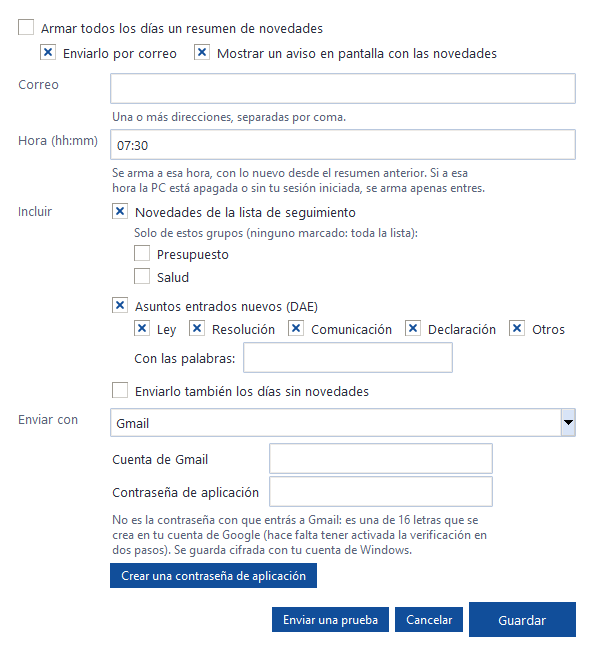
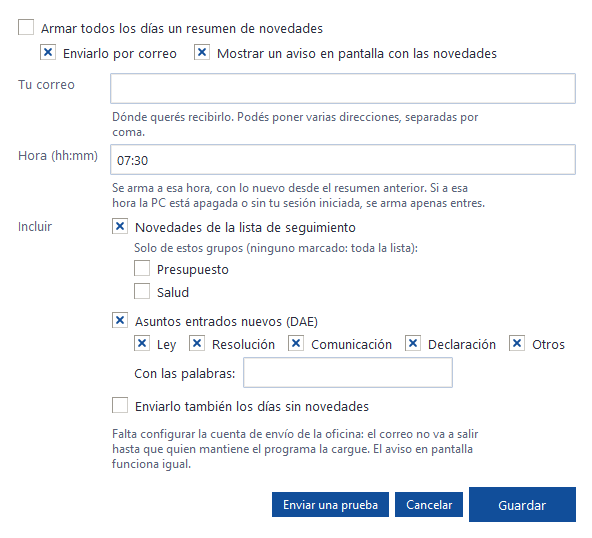
Resumen diario: se envía desde la cuenta de Gmail de la oficina
- El usuario solo escribe su dirección; no inicia sesión ni da contraseñas.
- La cuenta se lee de cuenta_envio.txt junto al .exe (para cambiarla sin recompilar), de
  INFORME_CUENTA_ENVIO o de la que trae el .exe.
- El workflow arma la cuenta con los secretos GMAIL_ENVIO_CUENTA y GMAIL_ENVIO_CLAVE y numera cada
  compilación (0.4.0.N), así cada PC ofrece actualizarse cuando cambia la contraseña.
- Se quitan Outlook, SMTP y la contraseña de aplicación por usuario.

diff --git a/informe_expedientes/correo.py b/informe_expedientes/correo.py
@@ -5,8 +5,16 @@ direcciones, qué grupos del seguimiento, si suma los asuntos entrados (con filt
 a qué hora y cómo se envía. Una tarea programada de Windows corre todos los días
 `InformeExpediente.exe --resumen-diario`, que arma el resumen y lo manda.
 
-Se envía con el Outlook de la PC (no hace falta contraseña: usa la cuenta ya abierta) o por SMTP. La
-contraseña de SMTP se guarda cifrada con la cuenta de Windows del usuario (DPAPI).
+Se envía desde la cuenta de Gmail de la oficina, creada solo para esto: el usuario solo indica a qué
+dirección quiere recibirlo. La cuenta y su contraseña de aplicación se leen, en este orden, de:
+
+1. `cuenta_envio.txt` junto al .exe (o junto a app.py): sirve para cambiar la contraseña editando un archivo
+   en la carpeta compartida, sin recompilar;
+2. la variable de entorno INFORME_CUENTA_ENVIO, con el mismo contenido;
+3. `recursos/cuenta_envio.txt`, que el workflow del .exe arma con los secretos del repositorio.
+
+El archivo tiene dos renglones: la dirección y la contraseña de aplicación (los renglones que empiezan con
+# se ignoran).
 
 El correo lleva su propio registro de lo ya avisado (`correo_seguimiento.json` y
 `correo_asuntos_entrados.json`), así no se pierden las novedades que el usuario revisa a mano en la ventana.
@@ -21,10 +29,10 @@ import os
 import smtplib
 import subprocess
 import sys
-import tempfile
 from dataclasses import asdict, dataclass, field
 from datetime import date, datetime, timedelta
 from email.message import EmailMessage
+from email.utils import formataddr
 from html import escape
 from pathlib import Path
 
@@ -32,9 +40,9 @@ from . import __version__, asuntos_entrados, config, seguimiento
 from .cliente import Cliente
 
 TAREA = "Informe de Expedientes - resumen diario"
-METODOS = {"gmail": "Gmail", "outlook": "Outlook clásico de esta PC", "smtp": "Otro servidor SMTP"}
 GMAIL = ("smtp.gmail.com", 587)
-URL_CLAVES_GMAIL = "https://myaccount.google.com/apppasswords"
+NOMBRE_REMITENTE = "Resumen parlamentario"
+ARCHIVO_CUENTA = "cuenta_envio.txt"
 
 
 def archivo_config() -> Path:
@@ -55,15 +63,6 @@ class ConfigCorreo:
     por_correo: bool = True                                   # mandar el resumen por correo
     aviso: bool = True                                        # mostrar un aviso en pantalla con las novedades
     ultimo: str = ""                                          # fecha (ISO) del último resumen armado
-    metodo: str = "gmail"
-    gmail_cuenta: str = ""
-    gmail_clave: str = ""                                     # contraseña de aplicación, cifrada (DPAPI)
-    smtp_servidor: str = ""
-    smtp_puerto: int = 587
-    smtp_tls: bool = True
-    smtp_usuario: str = ""
-    smtp_clave: str = ""                                      # cifrada (DPAPI), en base64
-    remitente: str = ""
 
     @classmethod
     def cargar(cls) -> "ConfigCorreo":
@@ -241,74 +240,61 @@ class ErrorCorreo(RuntimeError):
     pass
 
 
+def _carpeta_programa() -> Path:
+    if getattr(sys, "frozen", False):
+        return Path(sys.executable).resolve().parent
+    return Path(__file__).resolve().parent.parent
+
+
+def _leer_cuenta(texto: str) -> tuple[str, str] | None:
+    renglones = [x.strip() for x in texto.splitlines() if x.strip() and not x.strip().startswith("#")]
+    if len(renglones) < 2 or "@" not in renglones[0]:
+        return None
+    # Google muestra la contraseña de aplicación en grupos de cuatro («abcd efgh ijkl mnop»): los espacios no van.
+    return renglones[0], renglones[1].replace(" ", "")
+
+
+def cuenta_envio() -> tuple[str, str] | None:
+    """(dirección, contraseña de aplicación) de la cuenta de la oficina, o None si no está configurada."""
+    fuentes = [_carpeta_programa() / ARCHIVO_CUENTA, None, Path(__file__).resolve().parent / "recursos" / ARCHIVO_CUENTA]
+    for fuente in fuentes:
+        if fuente is None:
+            texto = os.environ.get("INFORME_CUENTA_ENVIO", "")
+        else:
+            try:
+                texto = fuente.read_text(encoding="utf-8-sig")
+            except OSError:
+                continue
+        cuenta = _leer_cuenta(texto)
+        if cuenta:
+            return cuenta
+    return None
+
+
 def enviar(cfg: ConfigCorreo, asunto: str, cuerpo_html: str, cuerpo_texto: str) -> None:
+    """Envía por Gmail desde la cuenta de la oficina."""
     if not cfg.destinatarios:
         raise ErrorCorreo("No hay ninguna dirección de correo configurada.")
-    if cfg.metodo == "outlook":
-        _por_outlook(cfg.destinatarios, asunto, cuerpo_html)
-    elif cfg.metodo == "gmail":
-        _por_gmail(cfg, asunto, cuerpo_html, cuerpo_texto)
-    else:
-        _por_smtp(cfg, asunto, cuerpo_html, cuerpo_texto)
-
-
-def _por_gmail(cfg: ConfigCorreo, asunto: str, cuerpo_html: str, cuerpo_texto: str) -> None:
-    """Gmail por SMTP, con una contraseña de aplicación (la común no sirve: Google la rechaza)."""
-    if not cfg.gmail_cuenta or not cfg.gmail_clave:
-        raise ErrorCorreo("Falta la cuenta de Gmail o la contraseña de aplicación.")
-    datos = ConfigCorreo(destinatarios=cfg.destinatarios, metodo="smtp", smtp_servidor=GMAIL[0],
-                         smtp_puerto=GMAIL[1], smtp_tls=True, smtp_usuario=cfg.gmail_cuenta,
-                         smtp_clave=cfg.gmail_clave, remitente=cfg.gmail_cuenta)
-    try:
-        _por_smtp(datos, asunto, cuerpo_html, cuerpo_texto)
-    except ErrorCorreo as e:
-        if isinstance(e.__cause__, smtplib.SMTPAuthenticationError):
-            raise ErrorCorreo("Gmail no aceptó la cuenta o la contraseña. Tiene que ser una contraseña de "
-                              f"aplicación (16 letras, se crea en {URL_CLAVES_GMAIL}), no la contraseña con "
-                              "que entrás a Gmail.") from e.__cause__
-        raise
-
-
-def _por_outlook(destinatarios: list[str], asunto: str, cuerpo_html: str) -> None:
-    """Con el Outlook de la PC, por PowerShell (COM): usa la cuenta ya configurada, sin contraseña."""
-    with tempfile.TemporaryDirectory(prefix="correo_") as carpeta:
-        cuerpo = Path(carpeta) / "cuerpo.html"
-        cuerpo.write_text(cuerpo_html, encoding="utf-8")
-        script = Path(carpeta) / "enviar.ps1"
-        script.write_text(
-            "$ErrorActionPreference = 'Stop'\n"
-            "$o = New-Object -ComObject Outlook.Application\n"
-            "$m = $o.CreateItem(0)\n"
-            f"$m.To = '{'; '.join(destinatarios).replace(chr(39), '')}'\n"
-            f"$m.Subject = '{asunto.replace(chr(39), chr(39) * 2)}'\n"
-            f"$m.HTMLBody = Get-Content -Raw -Encoding UTF8 '{cuerpo}'\n"
-            "$m.Send()\n", encoding="utf-8-sig")
-        r = subprocess.run(["powershell", "-NoProfile", "-NonInteractive", "-ExecutionPolicy", "Bypass",
-                            "-File", str(script)], capture_output=True, text=True, timeout=120,
-                           creationflags=getattr(subprocess, "CREATE_NO_WINDOW", 0))
-    if r.returncode != 0:
-        raise ErrorCorreo("El Outlook clásico no pudo enviar el correo. El Outlook nuevo no se puede usar desde "
-                          "otros programas: si es el que usás, elegí «Gmail» u «Otro servidor SMTP».\n"
-                          + (r.stderr or r.stdout).strip()[-300:])
-
-
-def _por_smtp(cfg: ConfigCorreo, asunto: str, cuerpo_html: str, cuerpo_texto: str) -> None:
-    if not cfg.smtp_servidor:
-        raise ErrorCorreo("Falta el servidor SMTP.")
+    cuenta = cuenta_envio()
+    if cuenta is None:
+        raise ErrorCorreo("El programa no tiene configurada la cuenta de envío de la oficina. Avisá a quien lo "
+                          "mantiene.")
+    usuario, clave = cuenta
     m = EmailMessage()
     m["Subject"], m["To"] = asunto, ", ".join(cfg.destinatarios)
-    m["From"] = cfg.remitente or cfg.smtp_usuario or cfg.destinatarios[0]
+    m["From"] = formataddr((NOMBRE_REMITENTE, usuario))
     m.set_content(cuerpo_texto)
     m.add_alternative(cuerpo_html, subtype="html")
     try:
-        with smtplib.SMTP(cfg.smtp_servidor, int(cfg.smtp_puerto), timeout=60) as s:
-            if cfg.smtp_tls:
-                s.starttls()
-            if cfg.smtp_usuario:
-                s.login(cfg.smtp_usuario, descifrar_clave(cfg.smtp_clave))
+        with smtplib.SMTP(*GMAIL, timeout=60) as s:
+            s.starttls()
+            s.login(usuario, clave)
             s.send_message(m)
+    except smtplib.SMTPAuthenticationError as e:
+        raise ErrorCorreo("La cuenta de envío de la oficina no aceptó la contraseña (puede haber cambiado). "
+                          "Avisá a quien mantiene el programa.") from e
     except (OSError, smtplib.SMTPException) as e:
-        raise ErrorCorreo(f"El servidor SMTP no aceptó el correo: {e}") from e
+        raise ErrorCorreo(f"No se pudo enviar el correo: {e}") from e
 
 
 def enviar_resumen(cfg: ConfigCorreo, cliente: Cliente, avisar=lambda *a, **k: None, forzar: bool = False) -> Resumen:
@@ -485,4 +471,4 @@ def programar(cfg: ConfigCorreo) -> None:
 
 __all__ = ["ConfigCorreo", "Resumen", "armar", "enviar", "enviar_resumen", "ejecutar_diario", "mostrar_aviso",
            "lineas_aviso", "programar", "ErrorCorreo",
-           "cifrar_clave", "descifrar_clave", "METODOS", "TAREA"]
+           "cifrar_clave", "descifrar_clave", "cuenta_envio", "TAREA"]

diff --git a/informe_expedientes/gui.py b/informe_expedientes/gui.py
@@ -2498,11 +2498,6 @@ class Aplicacion(tk.Tk):
         con_ae = tk.BooleanVar(value=cfg.asuntos)
         palabras = tk.StringVar(value=cfg.asuntos_palabras)
         vacio = tk.BooleanVar(value=cfg.enviar_vacio)
-        metodo = tk.StringVar(value=correo.METODOS.get(cfg.metodo, correo.METODOS["gmail"]))
-        servidor, puerto = tk.StringVar(value=cfg.smtp_servidor), tk.StringVar(value=str(cfg.smtp_puerto))
-        usuario, clave = tk.StringVar(value=cfg.smtp_usuario), tk.StringVar()
-        cuenta_gmail, clave_gmail = tk.StringVar(value=cfg.gmail_cuenta), tk.StringVar()
-        tls = tk.BooleanVar(value=cfg.smtp_tls)
         grupos = {g: tk.BooleanVar(value=g in cfg.grupos) for g in self.lista_seguimiento.grupos}
         tipos = {c: tk.BooleanVar(value=c in cfg.asuntos_tipos) for c, _ in TIPOS_TEMA}
 
@@ -2523,8 +2518,9 @@ class Aplicacion(tk.Tk):
                         style="Tarjeta.TCheckbutton").pack(side="left", padx=(0, 12))
         ttk.Checkbutton(formas, text="Mostrar un aviso en pantalla con las novedades", variable=aviso,
                         style="Tarjeta.TCheckbutton").pack(side="left")
-        renglon(1, "Correo", ttk.Entry(m, textvariable=destinos, width=46))
-        explicacion(m, "Una o más direcciones, separadas por coma.").grid(row=2, column=1, sticky="w")
+        renglon(1, "Tu correo", ttk.Entry(m, textvariable=destinos, width=46))
+        explicacion(m, "Dónde querés recibirlo. Podés poner varias direcciones, separadas por coma.").grid(
+            row=2, column=1, sticky="w")
         renglon(3, "Hora (hh:mm)", ttk.Entry(m, textvariable=hora, width=8))
         explicacion(m, "Se arma a esa hora, con lo nuevo desde el resumen anterior. Si a esa hora la PC está "
                        "apagada o sin tu sesión iniciada, se arma apenas entres.").grid(row=4, column=1, sticky="w")
@@ -2551,42 +2547,11 @@ class Aplicacion(tk.Tk):
                         style="Tarjeta.TCheckbutton").pack(anchor="w", pady=(6, 0))
         renglon(5, "Incluir", caja)
 
-        renglon(6, "Enviar con", ttk.Combobox(m, textvariable=metodo, values=list(correo.METODOS.values()),
-                                              state="readonly", width=24))
-        smtp = ttk.Frame(m, style="Tarjeta.TFrame")
-        campos = (("Servidor", servidor, 26, ""), ("Puerto", puerto, 6, ""), ("Usuario", usuario, 26, ""),
-                  ("Contraseña", clave, 26, "•"))
-        for i, (texto, var, ancho, oculto) in enumerate(campos):
-            ttk.Label(smtp, text=texto, style="Tarjeta.TLabel").grid(row=i, column=0, sticky="w", padx=(0, 8))
-            ttk.Entry(smtp, textvariable=var, width=ancho, show=oculto).grid(row=i, column=1, sticky="w", pady=1)
-        ttk.Checkbutton(smtp, text="Conexión segura (STARTTLS)", variable=tls, style="Tarjeta.TCheckbutton").grid(
-            row=4, column=1, sticky="w")
-        explicacion(smtp, "La contraseña se guarda cifrada con tu cuenta de Windows"
-                          + (" (ya hay una guardada: dejala vacía para no cambiarla)." if cfg.smtp_clave else ".")
-                    ).grid(row=5, column=0, columnspan=2, sticky="w")
-
-        gmail = ttk.Frame(m, style="Tarjeta.TFrame")
-        for i, (texto, var, oculto) in enumerate((("Cuenta de Gmail", cuenta_gmail, ""),
-                                                  ("Contraseña de aplicación", clave_gmail, "•"))):
-            ttk.Label(gmail, text=texto, style="Tarjeta.TLabel").grid(row=i, column=0, sticky="w", padx=(0, 8))
-            ttk.Entry(gmail, textvariable=var, width=30, show=oculto).grid(row=i, column=1, sticky="w", pady=1)
-        explicacion(gmail, "No es la contraseña con que entrás a Gmail: es una de 16 letras que se crea en tu cuenta "
-                           "de Google (hace falta tener activada la verificación en dos pasos). Se guarda cifrada "
-                           "con tu cuenta de Windows"
-                           + (" (ya hay una guardada: dejala vacía para no cambiarla)." if cfg.gmail_clave else ".")
-                    ).grid(row=2, column=0, columnspan=2, sticky="w", pady=(2, 0))
-        ttk.Button(gmail, text="Crear una contraseña de aplicación", style="Chico.TButton",
-                   command=lambda: webbrowser.open(correo.URL_CLAVES_GMAIL)).grid(row=3, column=0, columnspan=2,
-                                                                                 sticky="w", pady=(4, 0))
-
-        def ver_smtp(*_):
-            for marco, clave_metodo in ((smtp, "smtp"), (gmail, "gmail")):
-                if metodo.get() == correo.METODOS[clave_metodo]:
-                    marco.grid(row=7, column=1, sticky="w", pady=(2, 0))
-                else:
-                    marco.grid_remove()
-        metodo.trace_add("write", ver_smtp)
-        ver_smtp()
+        cuenta = correo.cuenta_envio()
+        explicacion(m, f"Llega desde la cuenta de la oficina ({cuenta[0]})." if cuenta else
+                       "Falta configurar la cuenta de envío de la oficina: el correo no va a salir hasta que "
+                       "quien mantiene el programa la cargue. El aviso en pantalla funciona igual.").grid(
+            row=6, column=1, sticky="w", pady=(4, 0))
 
         def leer():
             direcciones = [x.strip() for x in destinos.get().replace(";", ",").split(",") if x.strip()]
@@ -2603,19 +2568,7 @@ class Aplicacion(tk.Tk):
                 destinatarios=direcciones, hora=hora.get().strip().zfill(5),
                 seguimiento=con_seg.get(), grupos=[g for g, x in grupos.items() if x.get()],
                 asuntos=con_ae.get(), asuntos_tipos=[c for c, x in tipos.items() if x.get()],
-                asuntos_palabras=palabras.get().strip(), enviar_vacio=vacio.get(),
-                metodo=next(k for k, t in correo.METODOS.items() if t == metodo.get()),
-                smtp_servidor=servidor.get().strip(), smtp_puerto=int(puerto.get() or 587), smtp_tls=tls.get(),
-                smtp_usuario=usuario.get().strip(), smtp_clave=cfg.smtp_clave, remitente=cfg.remitente,
-                gmail_cuenta=cuenta_gmail.get().strip(), gmail_clave=cfg.gmail_clave)
-            if clave.get():
-                nuevo.smtp_clave = correo.cifrar_clave(clave.get())
-            if clave_gmail.get():
-                # Google la muestra en grupos de cuatro («abcd efgh ijkl mnop»): los espacios no van.
-                nuevo.gmail_clave = correo.cifrar_clave(clave_gmail.get().replace(" ", ""))
-            if por_correo.get() and nuevo.metodo == "gmail" and not (nuevo.gmail_cuenta and nuevo.gmail_clave):
-                messagebox.showwarning("Gmail", "Escribí la cuenta de Gmail y la contraseña de aplicación.", parent=v)
-                return None
+                asuntos_palabras=palabras.get().strip(), enviar_vacio=vacio.get())
             return nuevo
 
         def guardar():

diff --git a/tests/test_v0_4.py b/tests/test_v0_4.py
@@ -232,20 +232,33 @@ class _SMTPFalso:
         self.hechos.append(("enviar", m["From"], m["To"], m["Subject"]))
 
 
-@pytest.mark.skipif(sys.platform != "win32", reason="la clave se cifra con DPAPI")
-def test_envio_por_gmail(monkeypatch):
+def test_envio_desde_la_cuenta_de_la_oficina(tmp_path, monkeypatch):
     monkeypatch.setattr(correo.smtplib, "SMTP", _SMTPFalso)
-    cfg = correo.ConfigCorreo(destinatarios=["a@b.ar", "c@d.ar"], metodo="gmail", gmail_cuenta="oficina@gmail.com",
-                              gmail_clave=correo.cifrar_clave("abcdefghijklmnop"))
+    monkeypatch.setattr(correo, "_carpeta_programa", lambda: tmp_path)
+    monkeypatch.setattr(correo, "__file__", str(tmp_path / "paquete" / "correo.py"))
+    monkeypatch.delenv("INFORME_CUENTA_ENVIO", raising=False)
+    cfg = correo.ConfigCorreo(destinatarios=["a@b.ar", "c@d.ar"])
+    with pytest.raises(correo.ErrorCorreo, match="cuenta de envío"):
+        correo.enviar(cfg, "Prueba", "<p>hola</p>", "hola")
+
+    # La que trae el .exe (recursos/cuenta_envio.txt), con la contraseña como la muestra Google.
+    (tmp_path / "paquete" / "recursos").mkdir(parents=True)
+    (tmp_path / "paquete" / "recursos" / "cuenta_envio.txt").write_text(
+        "# cuenta de la oficina\nresumen.oficina@gmail.com\nabcd efgh ijkl mnop\n", encoding="utf-8")
     correo.enviar(cfg, "Prueba", "<p>hola</p>", "hola")
     assert _SMTPFalso.hechos == [("conectar", "smtp.gmail.com", 587), ("starttls",),
-                                 ("login", "oficina@gmail.com", "abcdefghijklmnop"),
-                                 ("enviar", "oficina@gmail.com", "a@b.ar, c@d.ar", "Prueba")]
+                                 ("login", "resumen.oficina@gmail.com", "abcdefghijklmnop"),
+                                 ("enviar", "Resumen parlamentario <resumen.oficina@gmail.com>", "a@b.ar, c@d.ar",
+                                  "Prueba")]
+    # La variable de entorno gana sobre la del .exe, y el archivo junto al .exe gana sobre las dos.
+    monkeypatch.setenv("INFORME_CUENTA_ENVIO", "otra@gmail.com\nclave2")
+    assert correo.cuenta_envio() == ("otra@gmail.com", "clave2")
+    (tmp_path / "cuenta_envio.txt").write_text("nueva@gmail.com\nclave3\n", encoding="utf-8")
+    assert correo.cuenta_envio() == ("nueva@gmail.com", "clave3")
+
     _SMTPFalso.rechazar = True
     try:
-        with pytest.raises(correo.ErrorCorreo, match="contraseña de aplicación"):
+        with pytest.raises(correo.ErrorCorreo, match="no aceptó la contraseña"):
             correo.enviar(cfg, "Prueba", "<p>hola</p>", "hola")
     finally:
         _SMTPFalso.rechazar = False
-    with pytest.raises(correo.ErrorCorreo, match="Falta la cuenta de Gmail"):
-        correo.enviar(correo.ConfigCorreo(destinatarios=["a@b.ar"], metodo="gmail"), "x", "x", "x")

diff --git a/README.md b/README.md
@@ -15,7 +15,7 @@ Usa solamente información pública de www.senado.gob.ar y www.hcdn.gob.ar.
 - **PDF**: casilla «PDF» en cada pestaña (expedientes, por tema, sesión) y en el informe de asuntos entrados. Se imprime el HTML con Microsoft Edge (o Chrome), que ya viene con Windows; si no hay ninguno, se guardan los demás formatos y se avisa.
 - **Exportar el seguimiento** a Excel (una hoja con todos, con filtros, y una hoja por grupo, con nombre, grupos, situación y último movimiento) o a PDF (agrupado por grupo), con el botón *Exportar* de la pestaña *Seguimiento*.
 - **Expedientes relacionados** como opción en el seguimiento y en el informe de sesión (casilla «Relacionados (lento)»; `--con-relacionados` en la línea de comandos). En el seguimiento, un relacionado que aparece se avisa como novedad: «Expediente relacionado nuevo: S-865/26 — Dictaminado en conjunto (Orden del Día N° 366/26) (Con dictamen de comisión)».
-- **Resumen diario** (*Herramientas → Resumen diario (correo y aviso)…*), opcional y por usuario: direcciones, hora, grupos del seguimiento, asuntos entrados con filtros de tipo y palabras, y si se envía también los días sin novedades. Llega por correo (por Gmail, con el Outlook clásico de la PC o por otro servidor SMTP) y, si hay novedades, aparece un aviso en la esquina de la pantalla con el resumen. Una tarea programada de Windows corre `--resumen-diario` todos los días; si a esa hora la PC estaba apagada, corre apenas el usuario inicia sesión. Lleva su propio registro, así no le quita las novedades a la revisión que se hace a mano.
+- **Resumen diario** (*Herramientas → Resumen diario (correo y aviso)…*), opcional y por usuario: direcciones, hora, grupos del seguimiento, asuntos entrados con filtros de tipo y palabras, y si se envía también los días sin novedades. Llega por correo, desde la cuenta de Gmail de la oficina (el usuario solo escribe su dirección), y, si hay novedades, aparece un aviso en la esquina de la pantalla con el resumen. Una tarea programada de Windows corre `--resumen-diario` todos los días; si a esa hora la PC estaba apagada, corre apenas el usuario inicia sesión. Lleva su propio registro, así no le quita las novedades a la revisión que se hace a mano.
 - **Aviso de versión nueva**: al abrir (una vez por día) o desde *Ayuda → Buscar actualizaciones*. Con el `.exe`, ofrece instalarla: la descarga y la reemplaza al cerrar. Las versiones se publican en Releases al compilar el `.exe` en GitHub Actions.
 - **Manual de usuario** en *Ayuda → Manual de usuario*: el incluido en el `.exe` o, si no está, el de Releases.
 - **Una carpeta por pestaña** dentro de la carpeta de informes: *Expedientes*, *Por tema*, *Seguimiento*, *Sesión* y *Asuntos entrados*.
@@ -143,11 +143,17 @@ En la pestaña **Asuntos entrados** se elige una fecha de partida y el programa 
 
 En *Herramientas → Resumen diario (correo y aviso)…* cada usuario elige si quiere recibir, todos los días a una hora, un resumen con las novedades de la lista de seguimiento (de toda la lista o de los grupos que marque) y los asuntos entrados nuevos (con los tipos y las palabras que elija). Puede llegarle por correo, como un aviso en la esquina de la pantalla (con *Ver el resumen*, *Abrir el programa* y *Cerrar*), o de las dos formas. *Enviar una prueba* comprueba que el correo llega.
 
-- **Gmail** (recomendado): la cuenta y una *contraseña de aplicación* de Google (16 letras; se crea en https://myaccount.google.com/apppasswords, con la verificación en dos pasos activada). La contraseña común de Gmail no sirve. Se envía por `smtp.gmail.com:587`.
-- **Outlook clásico de esta PC**: usa la cuenta ya abierta, sin contraseña. **El Outlook nuevo no sirve**: no se puede manejar desde otros programas, y Windows abre el clásico, que suele no tener la cuenta.
-- **Otro servidor SMTP** (por ejemplo, el institucional que indique Sistemas): servidor, puerto, usuario y contraseña. Las cuentas de Outlook.com y Microsoft 365 ya no aceptan SMTP con usuario y contraseña.
+El correo sale de **una cuenta de Gmail de la oficina, creada solo para esto**. El usuario no inicia sesión ni da contraseñas: solo escribe dónde quiere recibirlo.
 
-Las contraseñas se guardan cifradas con la cuenta de Windows del usuario (DPAPI): otra persona u otra PC no las puede leer.
+**Configurar la cuenta (una vez, quien mantiene el programa).**
+
+1. En la cuenta de Gmail de la oficina, activá la *verificación en dos pasos* y creá una **contraseña de aplicación** en https://myaccount.google.com/apppasswords (16 letras).
+2. En GitHub: *Settings → Secrets and variables → Actions → New repository secret*, creá `GMAIL_ENVIO_CUENTA` (la dirección) y `GMAIL_ENVIO_CLAVE` (la contraseña de aplicación).
+3. Ejecutá *Actions → Compilar InformeExpediente.exe*. El `.exe` lleva la cuenta adentro.
+
+**Si cambia la contraseña.** Al cambiar la contraseña de la cuenta, Google borra sus contraseñas de aplicación. Creá una nueva, reemplazá `GMAIL_ENVIO_CLAVE` y volvé a ejecutar el workflow: cada compilación lleva su propio número (por ejemplo, `0.4.0.17`), así que cada PC ofrece actualizarse sola al abrir el programa. Si el `.exe` se usa desde una carpeta compartida, hay otra forma sin recompilar: un archivo `cuenta_envio.txt` junto al `.exe`, con la dirección en el primer renglón y la contraseña de aplicación en el segundo, tiene prioridad sobre la que trae el `.exe`. Para correr desde el código, el mismo archivo junto a `app.py` o la variable de entorno `INFORME_CUENTA_ENVIO` (está en `.gitignore`).
+
+Cualquiera con el `.exe` o con acceso a ese archivo podría, con conocimientos técnicos, sacar la contraseña de aplicación: por eso la cuenta tiene que servir solo para esto. Si pasa, se borra esa contraseña de aplicación en Google y se crea otra. Gmail admite unos 500 envíos por día; los primeros correos de una cuenta nueva pueden caer en spam (conviene marcarlos como «No es spam»).
 
 Al guardar se crea la tarea programada de Windows «Informe de Expedientes - resumen diario», que corre `InformeExpediente.exe --resumen-diario` a esa hora. La tarea tiene activada la opción de Windows «ejecutar la tarea lo antes posible si se omitió un inicio programado»: si a esa hora la PC estaba apagada o sin la sesión iniciada, el resumen se arma apenas el usuario entra. Se arma una sola vez por día (`--forzar` lo repite). El último resumen queda en `ultimo_resumen.html`. Lo que pasa en cada envío queda en `correo.log`, en la carpeta de configuración. El correo lleva su propio registro de lo ya avisado (`correo_seguimiento.json` y `correo_asuntos_entrados.json`): la primera vez solo toma el estado de cada expediente.
 

diff --git a/manual/contenido.md b/manual/contenido.md
@@ -309,17 +309,13 @@ El programa puede armarle todos los días un resumen con las **novedades de su l
 
 1. Abra el menú **Herramientas → Resumen diario (correo y aviso)…**
 2. Marque **Armar todos los días un resumen de novedades** y elija cómo recibirlo: **Enviarlo por correo**, **Mostrar un aviso en pantalla**, o las dos.
-3. Escriba su **correo** (puede poner varios, separados por coma) y la **hora** de envío, por ejemplo `07:30`.
+3. En **Tu correo** escriba la dirección donde quiere recibirlo (puede poner varias, separadas por coma) y la **hora**, por ejemplo `07:30`.
 4. Elija qué **incluir**: las novedades del seguimiento (de toda la lista o solo de los grupos que marque) y los asuntos entrados, con los tipos y las palabras que le interesen.
-5. En **Enviar con** deje **Gmail**, escriba su cuenta de Gmail y una **contraseña de aplicación** (vea el recuadro).
-6. Presione **Enviar una prueba** y revise que el correo llegó.
-7. Presione **Guardar**.
+5. Presione **Enviar una prueba** y revise que el correo llegó.
+6. Presione **Guardar**.
 
-!!! paso "La contraseña de aplicación de Gmail"
-    No es la contraseña con que entra a Gmail. Presione **Crear una contraseña de aplicación**: se abre su cuenta de Google. Póngale un nombre (por ejemplo «Resumen parlamentario») y copie las 16 letras que muestra en el programa. Hace falta tener activada la verificación en dos pasos.
-
-!!! atencion "El Outlook nuevo no sirve"
-    La opción *Outlook clásico de esta PC* funciona solo con el Outlook clásico. El Outlook nuevo no se puede usar desde otros programas: si es el que usa, elija **Gmail**.
+!!! consejo "No hace falta ninguna contraseña"
+    El resumen llega desde la cuenta de correo de la oficina, «Resumen parlamentario». Usted solo escribe la dirección donde quiere recibirlo. Si el primero llega a la carpeta de spam, márquelo como «No es spam».
 
 !!! consejo "Si a esa hora la PC estaba apagada"
     El resumen se arma desde su PC. Si a la hora elegida la PC estaba apagada o sin su sesión iniciada, se arma apenas usted entra. Sale una sola vez por día.
